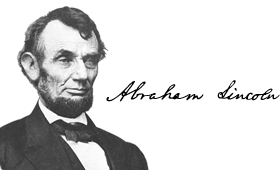
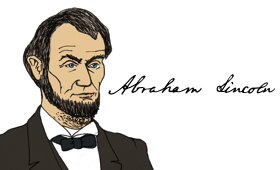
Update celebrity image on homepage

Changed region(s): [[0.0, 0.0294, 0.7429, 1.0], [0.7714, 0.4412, 1.0, 0.5882]]

diff --git a/static/stylesheets/home.css b/static/stylesheets/home.css
@@ -827,7 +827,7 @@ a.nav-logo-wrapper > img.logo-img {
 }
 .row.sign-like-star .box-celebrity {
   cursor: pointer;
-  background: #f1f1f1;
+  background: #ffffff;
   -moz-border-radius: 4px;
   -webkit-border-radius: 4px;
   border-radius: 4px;
@@ -1471,7 +1471,7 @@ footer ul li {
 }
 
 .remodal {
-  background-image: url('../images/Emondo-Icon-Colour.svg?1457552297') !important;
+  background-image: url('../images/Emondo-Icon-Colour.svg?1470696071') !important;
   background-position: 140% 358% !important;
   background-size: 58% 88% !important;
   background-repeat: no-repeat !important;

diff --git a/static/sass/home.scss b/static/sass/home.scss
@@ -398,7 +398,7 @@ a.nav-logo-wrapper {
 
   .box-celebrity {
     cursor: pointer;
-    background: #f1f1f1;
+    background: #ffffff;
     @include border-radius(4px);
     @include box-shadow(0px 35px 18px 0px rgba(0, 0, 0, 0.13));
     overflow: hidden;
